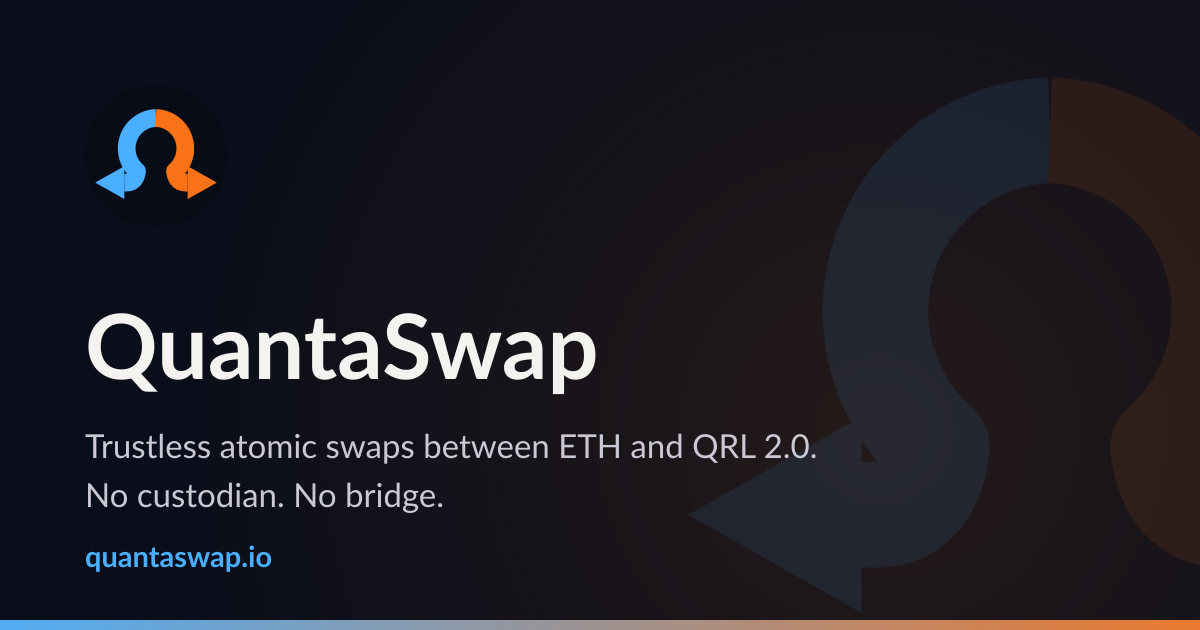
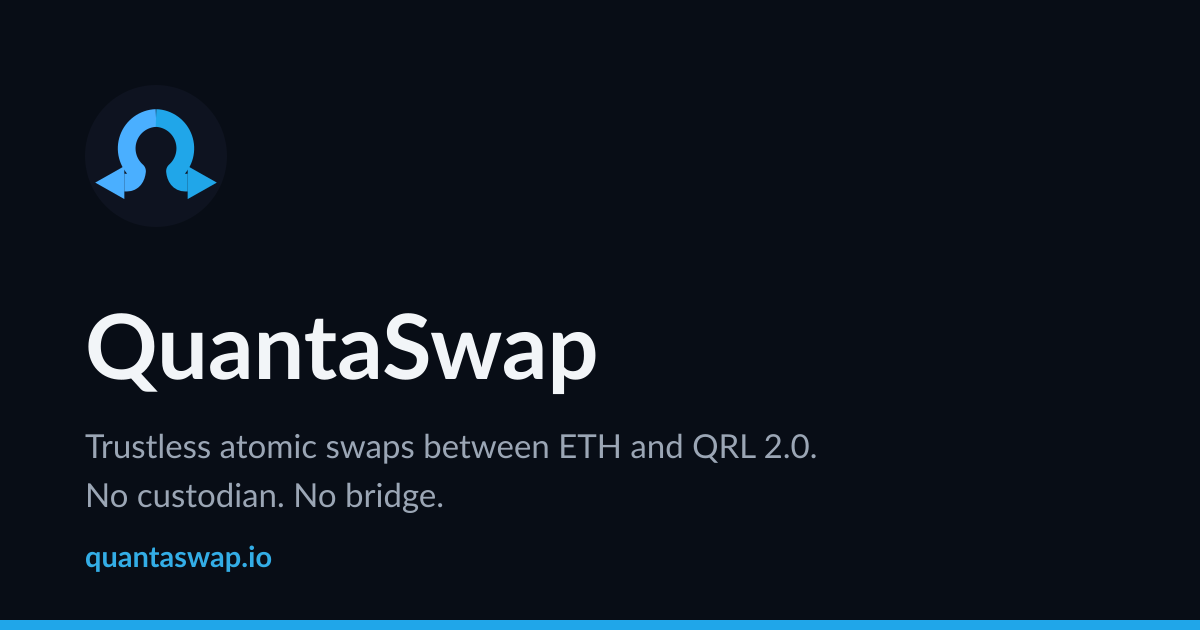
fix(frontend): contain the Live-contracts HTLC address and re-tone the OG assets
The QRL leg's three-segment address fingerprint has no spaces, so it
couldn't wrap and pushed the "Live contracts" sub-card past its border
at 1280px. min-w-0 up the chain plus break-all on the address link lets
it wrap within the card instead; the leg-name row now truncates the
name and pins "block N" to the right instead of wrapping awkwardly.
Checked at both 1280 and 390.

Regenerates apple-touch-icon.png and og-image.png from the brand/
sources in QRL Blue: flat navy background, the omega mark's QRL-side
arc in the new sky blue, no gradients or glows (the ghost watermark and
gradient strip/glow from the old og-card.svg are dropped for a
restrained flat card).

Claude-Session: https://claude.ai/code/session_01LWKZ1b4FBetebjo1kcNHJ8

diff --git a/frontend/src/components/NetworkPanel.tsx b/frontend/src/components/NetworkPanel.tsx
@@ -26,32 +26,34 @@ export function NetworkPanel() {
     height: number | undefined,
     addressUrl: string,
   ) => (
-    <div className="space-y-1.5 rounded-md border border-border/60 bg-muted/20 p-3 text-sm">
-      <div className="flex items-center justify-between">
-        <span className="flex items-center gap-1.5 text-muted-foreground">
+    <div className="min-w-0 space-y-1.5 rounded-md border border-border/60 bg-muted/20 p-3 text-sm">
+      <div className="flex min-w-0 items-center justify-between gap-2">
+        <span className="flex min-w-0 items-center gap-1.5 truncate text-muted-foreground">
           <span
             aria-hidden
             className={
               height !== undefined
-                ? "glow-dot h-1.5 w-1.5 rounded-full bg-current text-success"
-                : "h-1.5 w-1.5 rounded-full bg-current text-muted-foreground/60"
+                ? "glow-dot h-1.5 w-1.5 shrink-0 rounded-full bg-current text-success"
+                : "h-1.5 w-1.5 shrink-0 rounded-full bg-current text-muted-foreground/60"
             }
           />
-          {leg.name}
+          <span className="truncate">{leg.name}</span>
         </span>
-        <span className="font-numeric text-xs text-muted-foreground">block {height ?? "…"}</span>
+        <span className="font-numeric shrink-0 text-xs text-muted-foreground">
+          block {height ?? "…"}
+        </span>
       </div>
-      <div className="font-data text-xs">
-        HTLC{" "}
+      <div className="flex min-w-0 flex-wrap items-baseline gap-1 font-data text-xs">
+        <span className="shrink-0">HTLC</span>
         <a
           href={addressUrl}
           target="_blank"
           rel="noreferrer"
           title={leg.htlc}
           aria-label={`View ${leg.name} HTLC ${leg.htlc} on explorer`}
-          className="text-blue-accent hover:underline"
+          className="min-w-0 break-all text-blue-accent hover:underline"
         >
-          <AddressFingerprint address={leg.htlc} />
+          <AddressFingerprint address={leg.htlc} className="break-all" />
         </a>
       </div>
     </div>
